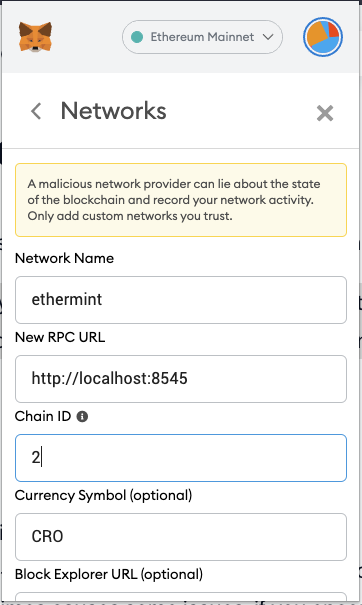
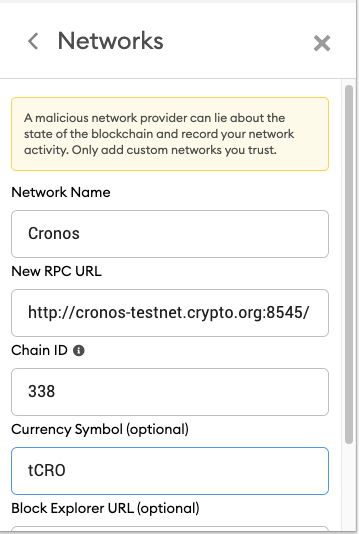
docs_update

diff --git a/docs/getting-started/cronos-testnet.md b/docs/getting-started/cronos-testnet.md
@@ -21,7 +21,7 @@ We officially support macOS, Windows and Linux only. Other platforms may work bu
 ## Step 1. Get the Cronos testnet binary
 
 ::: tip Remarks:
-The following is the minimal setup for a **validator node**.
+The following is the minimal setup for a **validator node** / **full node**.
 :::
 
 
@@ -38,9 +38,15 @@ To simplify the following step, we will be using **Linux** (Intel x86) for illus
   $ tar -zxvf ethermint_0.5.0-rc0_Linux_x86_64.tar.gz
   ```
 
+  Afterward, you can check the version of `ethermintd` by
+  ```bash
+  $ ./ethermintd version
+  0.5.0-rc0
+  ```
+
 ## Step 2. Configure `ethermintd`
 
-Before kick-starting your node, we will have to configure your node so that it connects to the cronos testnet:
+Before kick-starting your node, we will have to configure your node so that it connects to the Cronos testnet:
 
 ### Step 2-1 Initialize `ethermintd`
 
@@ -81,7 +87,7 @@ Before kick-starting your node, we will have to configure your node so that it c
   <!--TODO: Update sha256sum-->
 
   ```bash
[2 lines of base64/hex data omitted]
 
   OK!
   ```
@@ -109,7 +115,7 @@ Before kick-starting your node, we will have to configure your node so that it c
   ```bash
   $ sed -i.bak -E 's#^(persistent_peers[[:space:]]+=[[:space:]]+).*$#\1"b2a4c8db43b815e1ed83ab4723a6af84ccb8e3e4@13.213.110.242:26656,c76d7d28141daf037bec919268d0f38e64fd8389@3.1.240.30:26656"#' ~/.ethermintd/config/config.toml
   $ sed -i.bak -E 's#^(create_empty_blocks_interval[[:space:]]+=[[:space:]]+).*$#\1"5s"#' ~/.ethermintd/config/config.toml
-  $ sed -i.bak -E 's#^(timeout_commit[[:space:]]+=[[:space:]]+).*$#\1"2s"#' ~/.ethermintd/config/config.toml
+  $ sed -i.bak -E 's#^(timeout_commit[[:space:]]+=[[:space:]]+).*$#\1"8s"#' ~/.ethermintd/config/config.toml
   ```
   <!--TODO: seed nodes-->
 **Note**: We suggest using `persistent_peers` instead of `seeds` to provide stable state-sync experience.
@@ -140,28 +146,14 @@ You should obtain an address with `eth` prefix, e.g. `eth10u5mgfflasrfj9s94mt8l9
 
 ### Step 3-2. Obtain test token
 
-Unless you have obtained the Cronos testnet token before, use the faucet to obtain test tokens.
-In case you have reached the daily limit on faucet airdrop, you can simply send a message on [Discord](https://discord.gg/pahqHz26q4) #request-tcro channel ,
+Users can the [faucet](https://cronos.crypto.org/faucet) to obtain test tokens, please note that you would need a Ethereum type address `0x...` that can be obtained by 
+- [Using metamask](./metamask.md#using-metamask); or
+- Using the [address convention tool](./metamask.md#address-conventions).
+
+In case you have reached the daily limit on faucet , you can simply send a message on [Discord](https://discord.gg/pahqHz26q4) #request-tcro channel ,
 stating who you are and your `eth.....` address.
 
-### Step 3-3. Obtain the validator public key
-
-You can obtain your validator public key by:
-
-```bash
-  $ ./ethermintd tendermint show-validator
-```
-
-The public key should in a json format, for example:
-
-```json
-{
-  "@type": "/cosmos.crypto.ed25519.PubKey",
-  "key": "gvPPVShkWjuUn7cuqS3ci9fHnC+nLFxzsNWkwGJ6iMI="
-}
-```
-
-### Step 3-4. Run everything
+### Step 3-3. Run everything
 
 Once the `ethermintd` has been configured, we are ready to start the node and sync the blockchain data:
 
@@ -234,7 +226,7 @@ It should begin fetching blocks from the other peers. Please wait until it is fu
 - One can check the current block height by querying the public full node by:
 
   ```bash
-  curl -s https://cronostestnet-338.crypto.org:26657/commit | jq "{height: .result.signed_header.header.height}"
+  curl -s https://cronos-testnet.crypto.org:26657/commit | jq "{height: .result.signed_header.header.height}"
   ```
 
   and you can check your node's progress (in terms of block height) by
@@ -243,6 +235,27 @@ It should begin fetching blocks from the other peers. Please wait until it is fu
   $ ./ethermintd status 2>&1 | jq '.SyncInfo.latest_block_height'
   ```
 
+The next step only applied to the validators, in which, validator hosting is by invitation only at the early stage of the Cronos testnet. 
+
+----------------------------------------------------------------
+
+
+### Step 3-4. Obtain the validator public key
+
+You can obtain your validator public key by:
+
+```bash
+  $ ./ethermintd tendermint show-validator
+```
+
+The public key should in a json format, for example:
+
+```json
+{
+  "@type": "/cosmos.crypto.ed25519.PubKey",
+  "key": "gvPPVShkWjuUn7cuqS3ci9fHnC+nLFxzsNWkwGJ6iMI="
+}
+```
 ### Step 3-5. Send a `create-validator` transaction
 
 Once the node is fully synced, we are now ready to send a `create-validator` transaction and join the network, for example:
@@ -268,7 +281,7 @@ confirm transaction before signing and broadcasting [y/N]: y
 You will be required to insert the following:
 
 - `--from`: The `trco...` address that holds your funds;
-- `--pubkey`: The validator public key( See Step [3-3](#step-3-3-obtain-the-validator-public-key) above )
+- `--pubkey`: The validator public key( See Step [3-4](#step-3-4-obtain-the-validator-public-key) above )
 - `--moniker`: A moniker (name) for your validator node;
 - `--security-contact`: Security contact email/contact method.
 
@@ -277,9 +290,9 @@ You will be required to insert the following:
 Once the `create-validator` transaction completes, you can check if your validator has been added to the validator set:
 
 ```bash
-$ ./ethermintd tendermint show-address
-## [tcrocnclcons... address] ##
-$ ./ethermintd query tendermint-validator-set | grep -c [tcrocnclcons...]
+$ ./ethermintd tendermint show-validator
+## [{"@type":"/cosmos.crypto.ed25519.PubKey","key":"VALIDATOR_KEY"}] ##
+$ ./ethermintd query tendermint-validator-set | grep -c [VALIDATOR_KEY]
 ## 1 = Yes; 0 = Not yet added ##
 ```
 
@@ -287,7 +300,7 @@ To further check if the validator is signing blocks, kindly run this [script](ht
 
 ```bash
 $ curl -sSL https://raw.githubusercontent.com/crypto-com/chain-docs/master/docs/getting-started/assets/signature_checking/check-validator-up.sh | bash -s -- \
---tendermint-url https://cronostestnet-338.crypto.org:26657 \
+--tendermint-url https://cronos-testnet.crypto.org:26657 \
 --pubkey $(cat ~/.ethermintd/config/priv_validator_key.json | jq -r '.pub_key.value')
 
 The validator is in the active validator set under the address  <YOUR_VALIDATOR_ADDRESS>
@@ -296,18 +309,13 @@ The validator is signing @ Block#<BLOCK_HEIGHT> 👍
 
 ```bash
 $ curl -sSL https://raw.githubusercontent.com/crypto-com/chain-docs/master/docs/getting-started/assets/signature_checking/check-validator-up.sh | bash -s -- \
---tendermint-url https://cronostestnet-338.crypto.org:26657 \
+--tendermint-url http://cronos-testnet.crypto.org:26657 \
 --bechpubkey [tcrocnclconspub1....]
 
 The validator is in the active validator set under the address  <YOUR_VALIDATOR_ADDRESS>
 The validator is signing @ Block#<BLOCK_HEIGHT> 👍
 ```
 
-Alternatively, you can run it on this [browser based IDE](https://repl.it/@allthatjazzleo/cryptocomcheckNodeJoinStatus#main.go), by specifying your validator public key in the `"YOUR_PUBKEY"` field, where this key can be obtained by running
-
-```bash
-$ cat ~/.ethermintd/config/priv_validator_key.json | jq -r '.pub_key.value'
-```
 
 ## Step 4. Perform Transactions
 

diff --git a/docs/getting-started/metamask.md b/docs/getting-started/metamask.md
@@ -5,23 +5,36 @@ In the following step-by-step guide, you will learn how to use the Metamask chro
 
 First of all we would need to connect the metamask with the Cronos testnet network: 
 
-Hit the my account button in the top right corner, under **"Settings"**, select **"Networks"** 
+- Hit the my account button in the top right corner, under **"Settings"**, select **"Networks"** 
 
-<img src="./assets/1.png" />
+    <img src="./assets/1.png" />
 
-In the **"Networks"** page, click "Add Network":
+- In the **"Networks"** page, click "Add Network":
 
-<img src="./assets/2.png" />
+    <img src="./assets/2.png" />
 
-Insert the network name, for example "ethermint" ; for RPC URL put `http://localhost:8545/` and `2` for chain-id 
+- Insert the network name, for example "ethermint" ; for RPC URL put 
+`http://cronos-testnet.crypto.org:8545/` and `338` for chain-id If you would like to join the Cronos testnet 
 
-<img src="./assets/3.png" />
 
-After saving the network config, we can move to the next step and import the key
+
+    <img src="./assets/3.png" />
+
+After saving the network config, 
+
+
+
+
+
+
+
+
+
+
 
 ### Export privKey
 
-We can export the private key by using the `unsafe-export-eth-key` command, for example:
+Alternatively, We can export the private key by using the `unsafe-export-eth-key` command, for example:
 
 ```
 ethermintd keys unsafe-export-eth-key mykey --keyring-backend test
